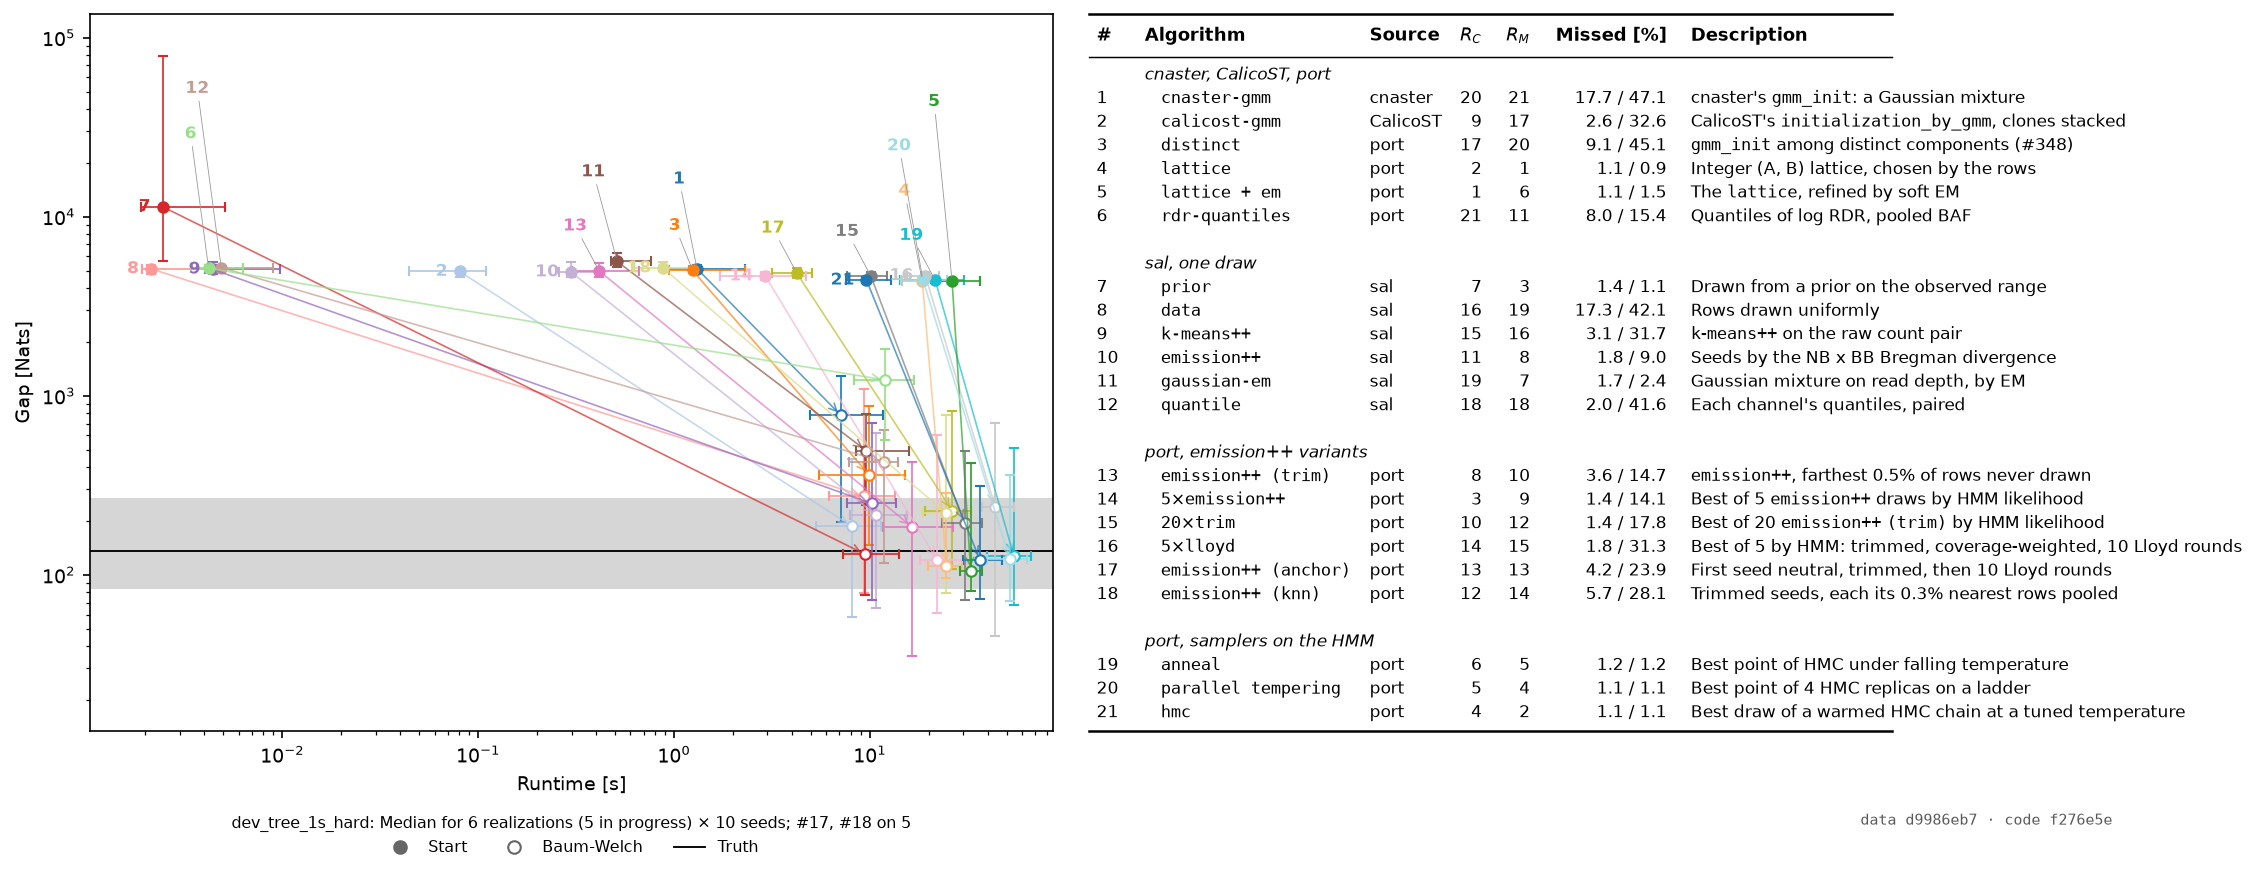
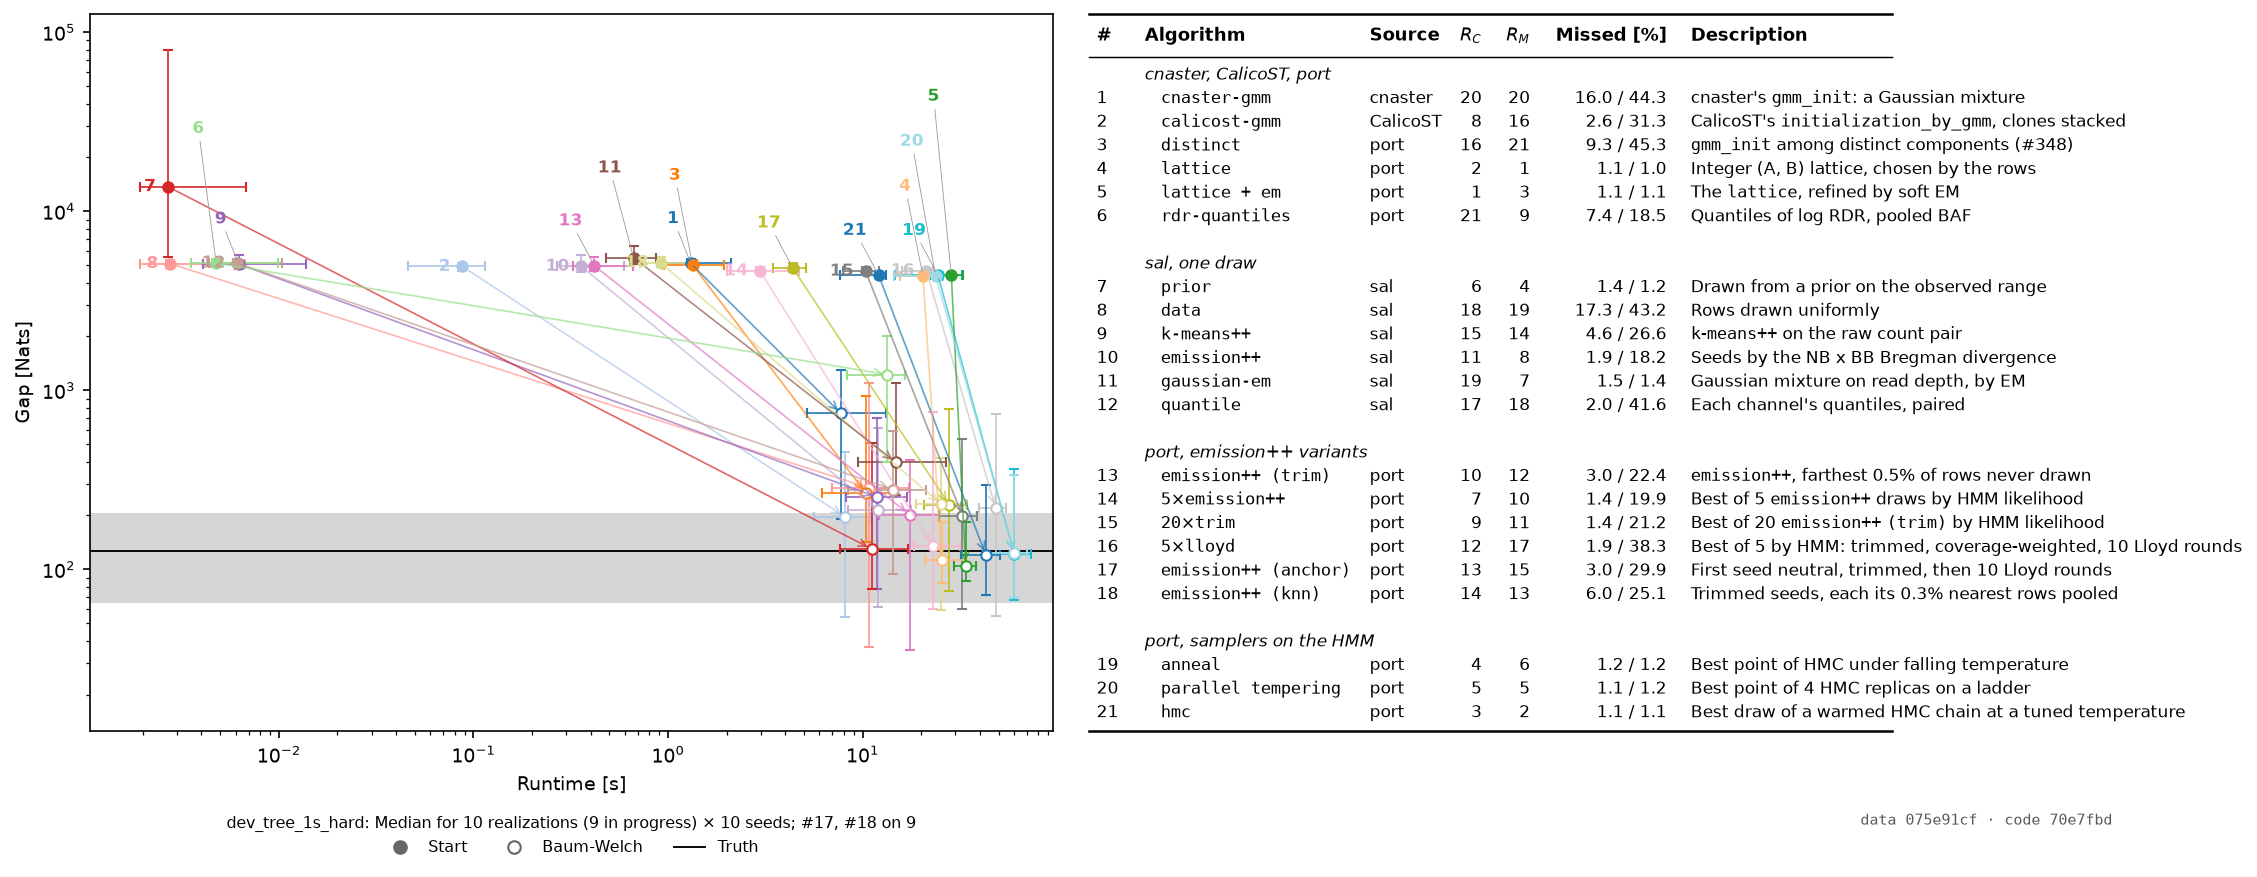
docs/study-copy-states: final, 10 realizations x 10 seeds
lattice 1.0% missed after --sal Baum-Welch; lattice + EM and hmc 1.1%; prior,
anneal, parallel tempering 1.2%; gaussian-em 1.4%; emission++ variants
18.2-38.3%; cnaster gmm_init 44.3%, CalicoST 31.3%.

Claude-Session: https://claude.ai/code/session_013R45AV845g3YiWXZGEDB8u

diff --git a/docs/study-copy-states.md b/docs/study-copy-states.md
@@ -1,10 +1,11 @@
 # Study: copy-state starts at known clones (#540)
 
-**TL;DR:** on `dev_tree_1s_hard` at the planted clones (6 of 10 realizations × 10 seeds so far), six
-starts end within 1.5% of rows missed after `--sal` Baum-Welch: `lattice` (0.9%), `prior`, parallel
-tempering and `hmc` (1.1%), `anneal` (1.2%) and `lattice` + EM (1.5%). `cnaster`'s own `gmm_init` ends at
-47.1%, CalicoST's at 32.6%, and every `emission++` variant at 9.0–31.3%. A start's own miss rate does not
-predict the fit's: 5 × `emission++` starts at 1.4% and ends at 14.1%.
+**TL;DR:** on `dev_tree_1s_hard` at the planted clones (10 realizations × 10 seeds), seven starts end
+within 1.5% of rows missed after `--sal` Baum-Welch: `lattice` (1.0%), `lattice` + EM and `hmc` (1.1%),
+`prior`, `anneal` and parallel tempering (1.2%), and `gaussian-em` (1.4%, where it does not refuse).
+`cnaster`'s own `gmm_init` ends at 44.3%, CalicoST's at 31.3%, and every `emission++` variant at
+18.2–38.3%. A start's own miss rate does not predict the fit's: 5 × `emission++` starts at 1.4% and ends
+at 19.9%.
 
 ## Method
 
@@ -24,35 +25,35 @@ predict the fit's: 5 × `emission++` starts at 1.4% and ends at 14.1%.
 5. **Tuning.** `anneal-hmm`, `tempering-hmm`, `hmc-hmm` and the `emission++` variants are tuned on 3
    held-out realizations that are never evaluated (`copy_sampler_settings.json`).
 
-## Results: `dev_tree_1s_hard`, 6 realizations × 10 seeds (10 in progress)
+## Results: `dev_tree_1s_hard`, 10 realizations × 10 seeds
 
 Median gap below the best fit reached on each realization [nats], at the start and after Baum-Welch; median
-rows missed; median seconds for start and Baum-Welch together. The planted states, polished, sit 135 nats
-below the best (median).
+rows missed; median seconds for start and Baum-Welch together. The planted states, polished, sit 126 nats
+below the best (median). The `anchor` and `knn` variants joined after the first realization and run on 9.
 
 | # | start | start gap | after BW | Missed start / after [%] | s |
 | --- | --- | --- | --- | --- | --- |
-| 4 | `lattice` | 4,384 | 112 | 1.1 / 0.9 | 34 |
-| 5 | `lattice` + EM | 4,391 | 105 | 1.1 / 1.5 | 42 |
-| 7 | `prior` | 11,372 | 130 | 1.4 / 1.1 | 11 |
-| 20 | parallel tempering on the HMM | 4,421 | 123 | 1.1 / 1.1 | 25 |
-| 21 | `hmc` on the HMM, warmed, T = 10 | 4,424 | 122 | 1.1 / 1.1 | 16 |
-| 19 | `anneal` on the HMM | 4,415 | 127 | 1.2 / 1.2 | 28 |
-| 11 | `gaussian-em` | 5,627 | 494 | 1.7 / 2.4 | 8 |
-| 10 | `emission++` | 4,910 | 215 | 1.8 / 9.0 | 10 |
-| 14 | 5 × `emission++` by HMM likelihood | 4,666 | 120 | 1.4 / 14.1 | 16 |
-| 13 | `emission++`, trimmed | 4,986 | 185 | 3.6 / 14.7 | 13 |
-| 6 | `rdr-quantiles` | 5,157 | 1,225 | 8.0 / 15.4 | 14 |
-| 15 | 20 × trimmed `emission++` | 4,645 | 194 | 1.4 / 17.8 | 20 |
-| 17 | `emission++`, neutral anchor (5 realizations) | 4,853 | 228 | 4.2 / 23.9 | 15 |
-| 18 | `emission++`, kNN seeds (5 realizations) | 5,169 | 220 | 5.7 / 28.1 | 13 |
-| 16 | 5 × Lloyd-refined `emission++` | 4,680 | 239 | 1.8 / 31.3 | 27 |
-| 9 | `k-means++` | 5,087 | 250 | 3.1 / 31.7 | 10 |
-| 2 | CalicoST `initialization_by_gmm` | 4,948 | 187 | 2.6 / 32.6 | 13 |
-| 12 | `quantile` | 5,200 | 427 | 2.0 / 41.6 | 10 |
-| 8 | `data` | 5,118 | 275 | 17.3 / 42.1 | 10 |
-| 3 | `distinct` (#348) | 5,012 | 363 | 9.1 / 45.1 | 14 |
-| 1 | `cnaster` `gmm_init` | 5,129 | 777 | 17.7 / 47.1 | 12 |
+| 4 | `lattice` | 4,354 | 112 | 1.1 / 1.0 | 35 |
+| 5 | `lattice` + EM | 4,381 | 105 | 1.1 / 1.1 | 43 |
+| 21 | `hmc` on the HMM, warmed, T = 10 | 4,395 | 120 | 1.1 / 1.1 | 19 |
+| 7 | `prior` | 13,733 | 130 | 1.4 / 1.2 | 13 |
+| 19 | `anneal` on the HMM | 4,384 | 122 | 1.2 / 1.2 | 31 |
+| 20 | parallel tempering on the HMM | 4,372 | 123 | 1.1 / 1.2 | 29 |
+| 11 | `gaussian-em` | 5,516 | 397 | 1.5 / 1.4 | 13 |
+| 6 | `rdr-quantiles` | 5,148 | 1,225 | 7.4 / 18.5 | 16 |
+| 10 | `emission++` | 4,927 | 213 | 1.9 / 18.2 | 11 |
+| 14 | 5 × `emission++` by HMM likelihood | 4,639 | 136 | 1.4 / 19.9 | 16 |
+| 15 | 20 × trimmed `emission++` | 4,624 | 199 | 1.4 / 21.2 | 22 |
+| 13 | `emission++`, trimmed | 4,961 | 202 | 3.0 / 22.4 | 13 |
+| 18 | `emission++`, kNN seeds | 5,160 | 231 | 6.0 / 25.1 | 14 |
+| 9 | `k-means++` | 5,081 | 253 | 4.6 / 26.6 | 12 |
+| 17 | `emission++`, neutral anchor | 4,833 | 229 | 3.0 / 29.9 | 16 |
+| 2 | CalicoST `initialization_by_gmm` | 4,921 | 197 | 2.6 / 31.3 | 13 |
+| 16 | 5 × Lloyd-refined `emission++` | 4,650 | 219 | 1.9 / 38.3 | 30 |
+| 12 | `quantile` | 5,132 | 279 | 2.0 / 41.6 | 12 |
+| 8 | `data` | 5,101 | 286 | 17.3 / 43.2 | 11 |
+| 1 | `cnaster` `gmm_init` | 5,114 | 743 | 16.0 / 44.3 | 13 |
+| 3 | `distinct` (#348) | 5,013 | 267 | 9.3 / 45.3 | 15 |
 
 `gaussian-em` refuses on some seeds: a component's variance collapses on the normal clone's point mass, and
 `sal` refuses rather than floor it. The figure is `tests.studies.copy_state_plot` over the merged stream,
